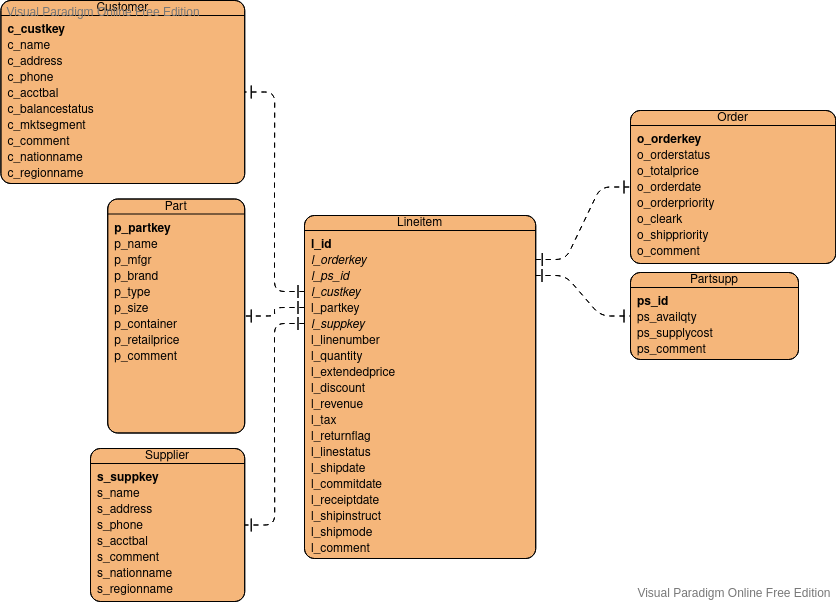
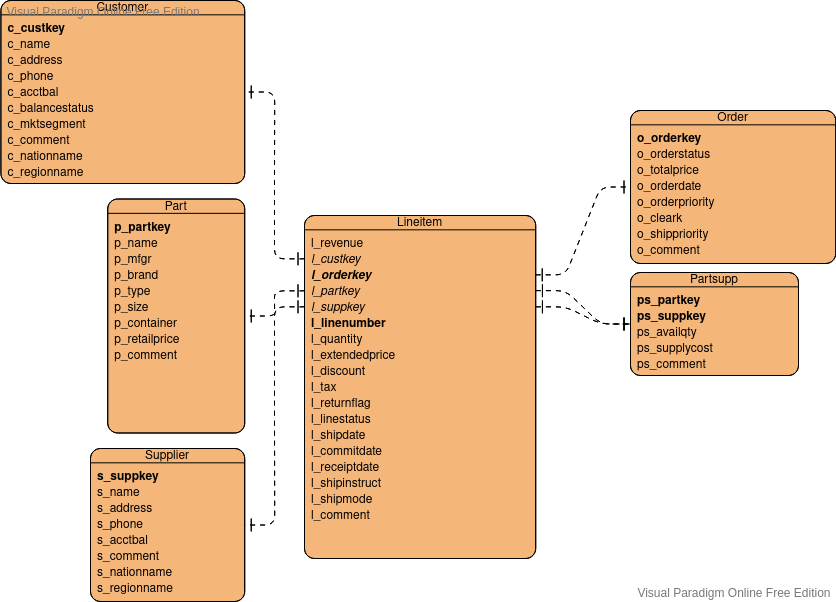
Adjust for mistake in ERD diagram

diff --git a/solution/load.py b/solution/load.py
@@ -13,11 +13,11 @@ def main():
     load_customers(cur, nations)
     load_suppliers(cur, nations)
     load_parts(cur)
-    ps_part_supp_map = load_partsupps(cur)
+    load_partsupps(cur)
     order_customer_map = load_orders(cur)
 
     # load the fact table
-    load_lineitems(cur, order_customer_map, ps_part_supp_map)
+    load_lineitems(cur, order_customer_map)
 
     db.commit()
     db.close()
@@ -92,24 +92,17 @@ def load_parts(cursor):
 
 def load_partsupps(cursor):
     query = '''CREATE TABLE partsupps
-    (ps_id integer PRIMARY KEY, ps_availqty integer, ps_supplycost real, ps_comment text)
+    (ps_partkey integer, ps_suppkey integer, ps_availqty integer, ps_supplycost real, ps_comment text,
+     PRIMARY KEY (ps_partkey, ps_suppkey),
+     FOREIGN KEY (ps_suppkey) REFERENCES suppliers(s_suppkey),
+     FOREIGN KEY (ps_partkey) REFERENCES parts(ps_partkey))
     '''
     cursor.execute(query)
-
-    part_supp_map = {}
     
     def mapper(row):
-        part_supp_map[int(row[0])] = (int(row[1]), int(row[2]))
-        return (
-            row[0],
-            row[3],
-            row[4],
-            row[5]
-        )
+        return row[:-1]
 
     import_helper(cursor, 'partsupp.tbl', 'partsupps', mapper)
-
-    return part_supp_map
 
 def load_orders(cursor):
     query = '''CREATE TABLE orders
@@ -129,32 +122,27 @@ def load_orders(cursor):
     return customer_map
 
 # main fact table
-def load_lineitems(cursor, order_customer_map, ps_part_supp_map):
+def load_lineitems(cursor, order_customer_map):
     query = '''CREATE TABLE lineitems
-    (l_id integer PRIMARY KEY, l_orderkey integer, l_ps_id integer, l_custkey integer,
-     l_partkey integer, l_suppkey integer, l_revenue real, l_linenumber integer, l_quantity integer,
+    (l_revenue real, l_custkey integer, l_orderkey integer, l_partkey integer, l_suppkey integer,
+     l_linenumber integer, l_quantity integer,
      l_extendedprice real, l_discount real, l_tax real, l_returnflag text,
      l_linestatus text, l_shipdate text, l_commitdate text, l_receiptdate text,
      l_shipinstruct text, l_shipmode text, l_comment text,
+     PRIMARY KEY(l_orderkey, l_linenumber),
      FOREIGN KEY(l_orderkey) REFERENCES orders(o_orderkey),
-     FOREIGN KEY(l_ps_id) REFERENCES partsupps(ps_id),
      FOREIGN KEY(l_custkey) REFERENCES customers(c_custkey),
      FOREIGN KEY(l_partkey) REFERENCES parts(p_partkey),
-     FOREIGN KEY(l_suppkey) REFERENCES suppliers(s_suppkey))
+     FOREIGN KEY(l_suppkey) REFERENCES suppliers(s_suppkey),
+     FOREIGN KEY(l_partkey, l_suppkey) REFERENCES partsupps(ps_partkey, ps_suppkey))
     '''
     cursor.execute(query)
     
     def mapper(row):
-        part_supp_tuple = ps_part_supp_map[int(row[2])]
         return [
-            row[0],
-            row[1],
-            row[2],
-            order_customer_map.get(int(row[1]), 'NULL'),
-            part_supp_tuple[0],
-            part_supp_tuple[1],
             float(row[5]) * (1 - float(row[6])), # REVENUE
-        ] + row[3:-1]
+            order_customer_map.get(int(row[1]), 'NULL'),
+        ] + row[:-1]
 
     import_helper(cursor, 'lineitem.tbl', 'lineitems', mapper)
 

diff --git a/solution/helpers.py b/solution/helpers.py
@@ -29,5 +29,5 @@ def import_helper(cursor, file_name, table_name, row_mapper):
             rows.append(new_row)
 
     if table_width > 0:
-        query = f"REPLACE INTO {table_name} VALUES ({', '.join(['?'] * table_width)})"
+        query = f"INSERT INTO {table_name} VALUES ({', '.join(['?'] * table_width)})"
         cursor.executemany(query, rows)

diff --git a/solution/readme.md b/solution/readme.md
@@ -2,7 +2,9 @@
 
 ## The schema
 
-The largest change to the original ERD is a denormalization to make it star shaped, with the `lineitems` table being the single fact table. To still allow linking customer, part and supplier information to these facts, we have included the foreign keys of the order table and 'partsupp' table to the fact table, with the exception of nation and region data. Those last two tables have been removed entirely and have been joined to the customer and supplier tables. We also drop the nation and region comment fields to reduce duplication. We felt this was justified as these fields are likely not very relevant for gathering insights. An alternative approach would have been to add region and nation foreign keys to the fact table for both customers and suppliers, but this seemed cumbersome and messy.
+The largest change to the original ERD is a denormalization to make it star shaped, with the `lineitems` table being the only fact table. To still allow linking customer, part and supplier information to these facts, we have included the foreign keys of the order table and 'partsupp' table to the fact table, with the exception of nation and region data. Those last two tables have been removed entirely and have been joined to the customer and supplier tables. We also drop the nation and region comment fields to reduce duplication. We felt this was justified as these fields are likely not very relevant for gathering insights. An alternative approach would have been to add region and nation foreign keys to the fact table for both customers and suppliers, but this seemed cumbersome and messy.
+
+(Note that the ERD diagram in the problem description is not consistent with the data: the diagram has separate ids for lineitems and 'partsupps', but they're not there in the data.)
 
 ![star-schema](beerwulf.png)
 
@@ -53,7 +55,7 @@ WITH top_nations AS (
 SELECT l_shipmode FROM lineitems
 	JOIN customers ON l_custkey = c_custkey AND c_nationname IN top_nations
 	GROUP BY l_shipmode
-	ORDER BY COUNT(l_id) DESC
+	ORDER BY COUNT(*) DESC
 	LIMIT 1
 ```
 
